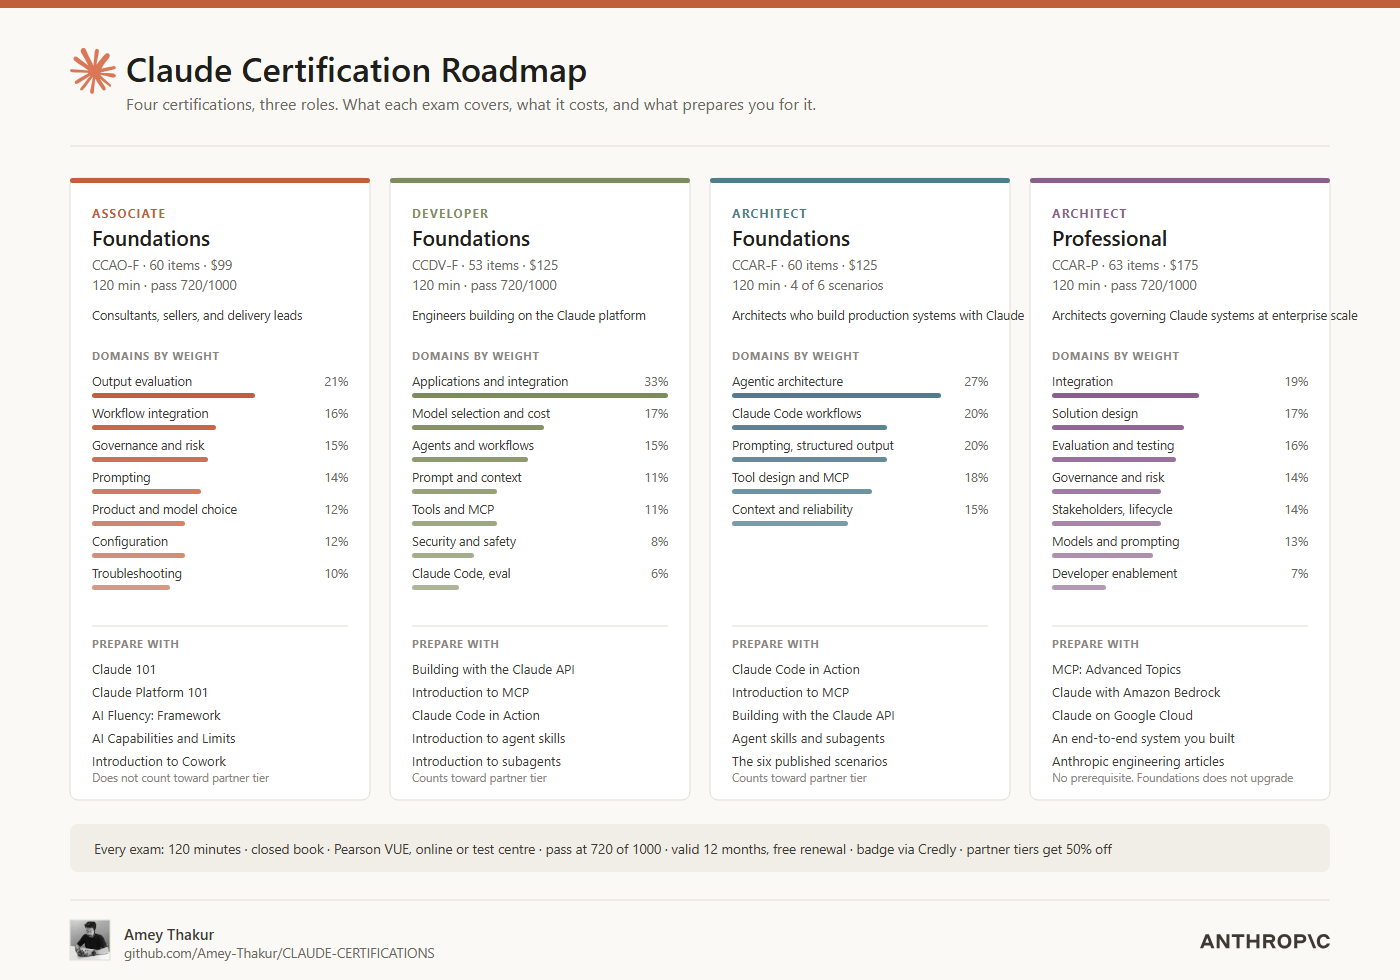
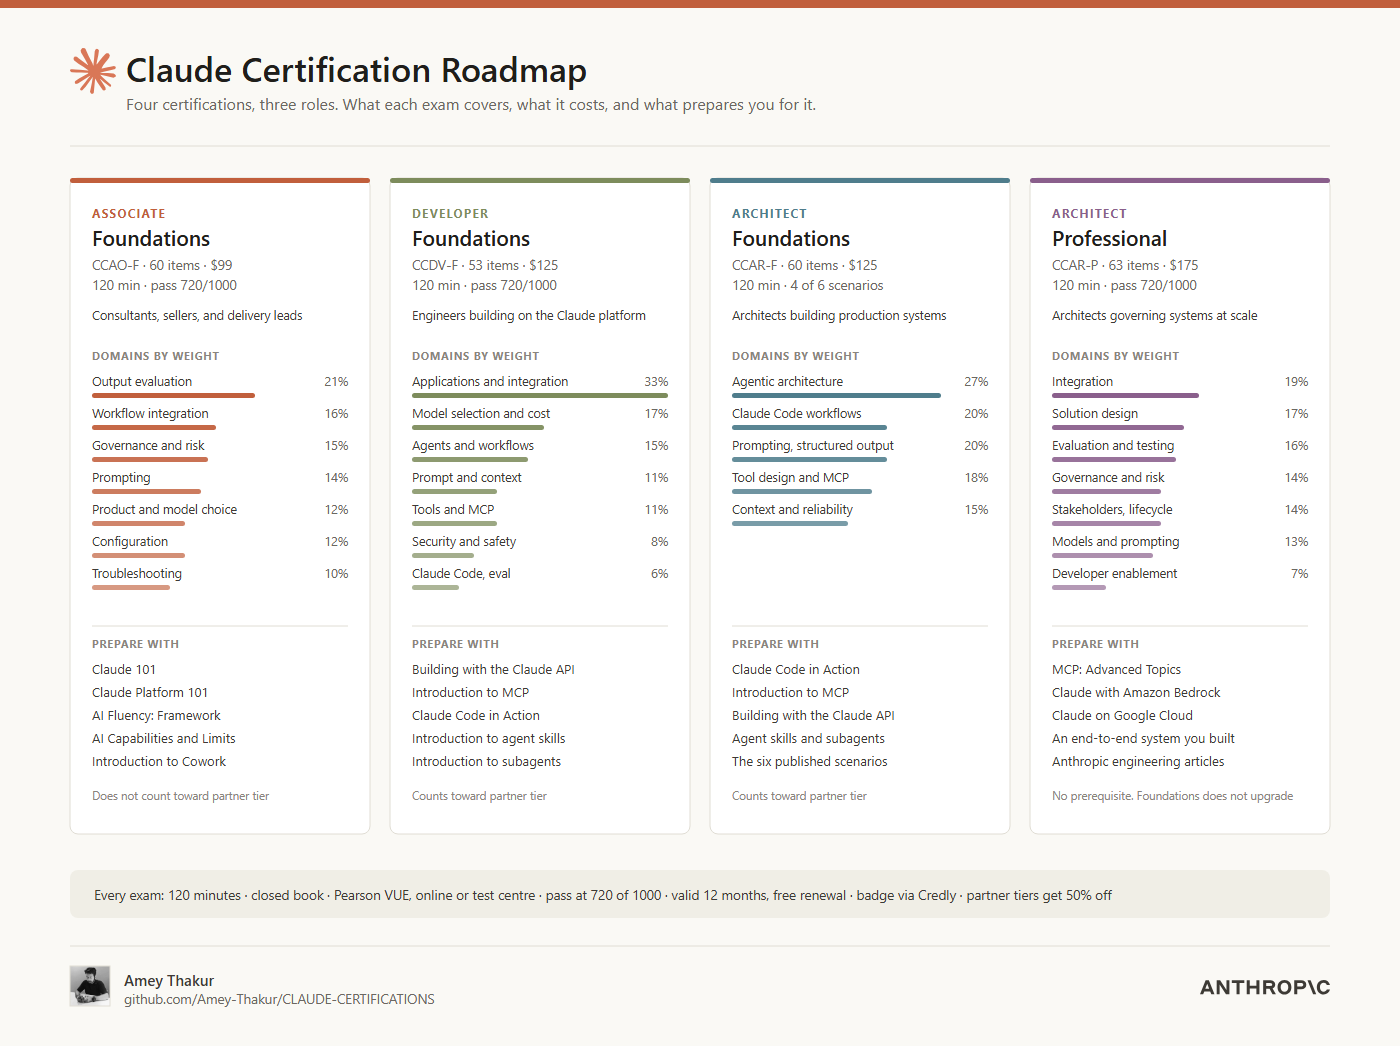
Claude Certifications

diff --git a/.github/scripts/build_images.py b/.github/scripts/build_images.py
@@ -91,7 +91,7 @@ CERTS = [
     {
         "role": "ARCHITECT", "level": "Foundations", "accent": TEAL, "slug": "architect-foundations",
         "code": "CCAR-F", "items": "60 items", "fee": "$125", "extra": "4 of 6 scenarios",
-        "audience": "Architects who build production systems with Claude",
+        "audience": "Architects building production systems",
         "domains": [("Agentic architecture", 27), ("Claude Code workflows", 20),
                     ("Prompting, structured output", 20), ("Tool design and MCP", 18),
                     ("Context and reliability", 15)],
@@ -113,7 +113,7 @@ CERTS = [
     {
         "role": "ARCHITECT", "level": "Professional", "accent": PLUM, "slug": "architect-professional",
         "code": "CCAR-P", "items": "63 items", "fee": "$175", "extra": "pass 720/1000",
-        "audience": "Architects governing Claude systems at enterprise scale",
+        "audience": "Architects governing systems at scale",
         "domains": [("Integration", 19), ("Solution design", 17), ("Evaluation and testing", 16),
                     ("Governance and risk", 14), ("Stakeholders, lifecycle", 14),
                     ("Models and prompting", 13), ("Developer enablement", 7)],
@@ -223,7 +223,7 @@ def social_preview():
 
 
 def roadmap():
-    W, H = 1400, 980
+    W, H = 1400, 1046
     out = [f'<svg xmlns="http://www.w3.org/2000/svg" viewBox="0 0 {W} {H}" width="{W}" height="{H}"'
            f' font-family="{FONT}" role="img" aria-label="Claude certification roadmap: four certifications with'
            f' exam facts, domain weights, and the courses that prepare for each">',
@@ -239,7 +239,7 @@ def roadmap():
     for i, cert in enumerate(CERTS):
         x = 70 + i * (col_w + gap)
         a = cert["accent"]
-        out.append(f'<rect x="{x}" y="{top}" width="{col_w}" height="622" rx="8" fill="{CARD}" stroke="{RULE}"/>')
+        out.append(f'<rect x="{x}" y="{top}" width="{col_w}" height="656" rx="8" fill="{CARD}" stroke="{RULE}"/>')
         out.append(f'<rect x="{x}" y="{top}" width="{col_w}" height="5" rx="2.5" fill="{a}"/>')
         out.append(f'<text x="{x + 22}" y="{top + 40}" font-size="12" font-weight="700" fill="{a}" letter-spacing="1.2">{cert["role"]}</text>')
         out.append(f'<text x="{x + 22}" y="{top + 68}" font-size="21" font-weight="600" fill="{INK}">{cert["level"]}</text>')
@@ -262,9 +262,9 @@ def roadmap():
         for name in cert["prep"]:
             out.append(f'<text x="{x + 22}" y="{y}" font-size="13" fill="{BODY}">{esc(name)}</text>')
             y += 23
-        out.append(f'<text x="{x + 22}" y="{top + 604}" font-size="11.5" fill="{FAINT}">{esc(cert["note"])}</text>')
+        out.append(f'<text x="{x + 22}" y="{top + 622}" font-size="11.5" fill="{FAINT}">{esc(cert["note"])}</text>')
 
-    strip = top + 646
+    strip = top + 692
     out.append(f'<rect x="70" y="{strip}" width="{W - 140}" height="48" rx="8" fill="#f0eee6"/>')
     out.append(f'<text x="94" y="{strip + 30}" font-size="13.5" fill="{BODY}">Every exam: 120 minutes  ·  closed book  ·  Pearson VUE, online or test centre  ·  pass at 720 of 1000  ·  valid 12 months, free renewal  ·  badge via Credly  ·  partner tiers get 50% off</text>')
 
